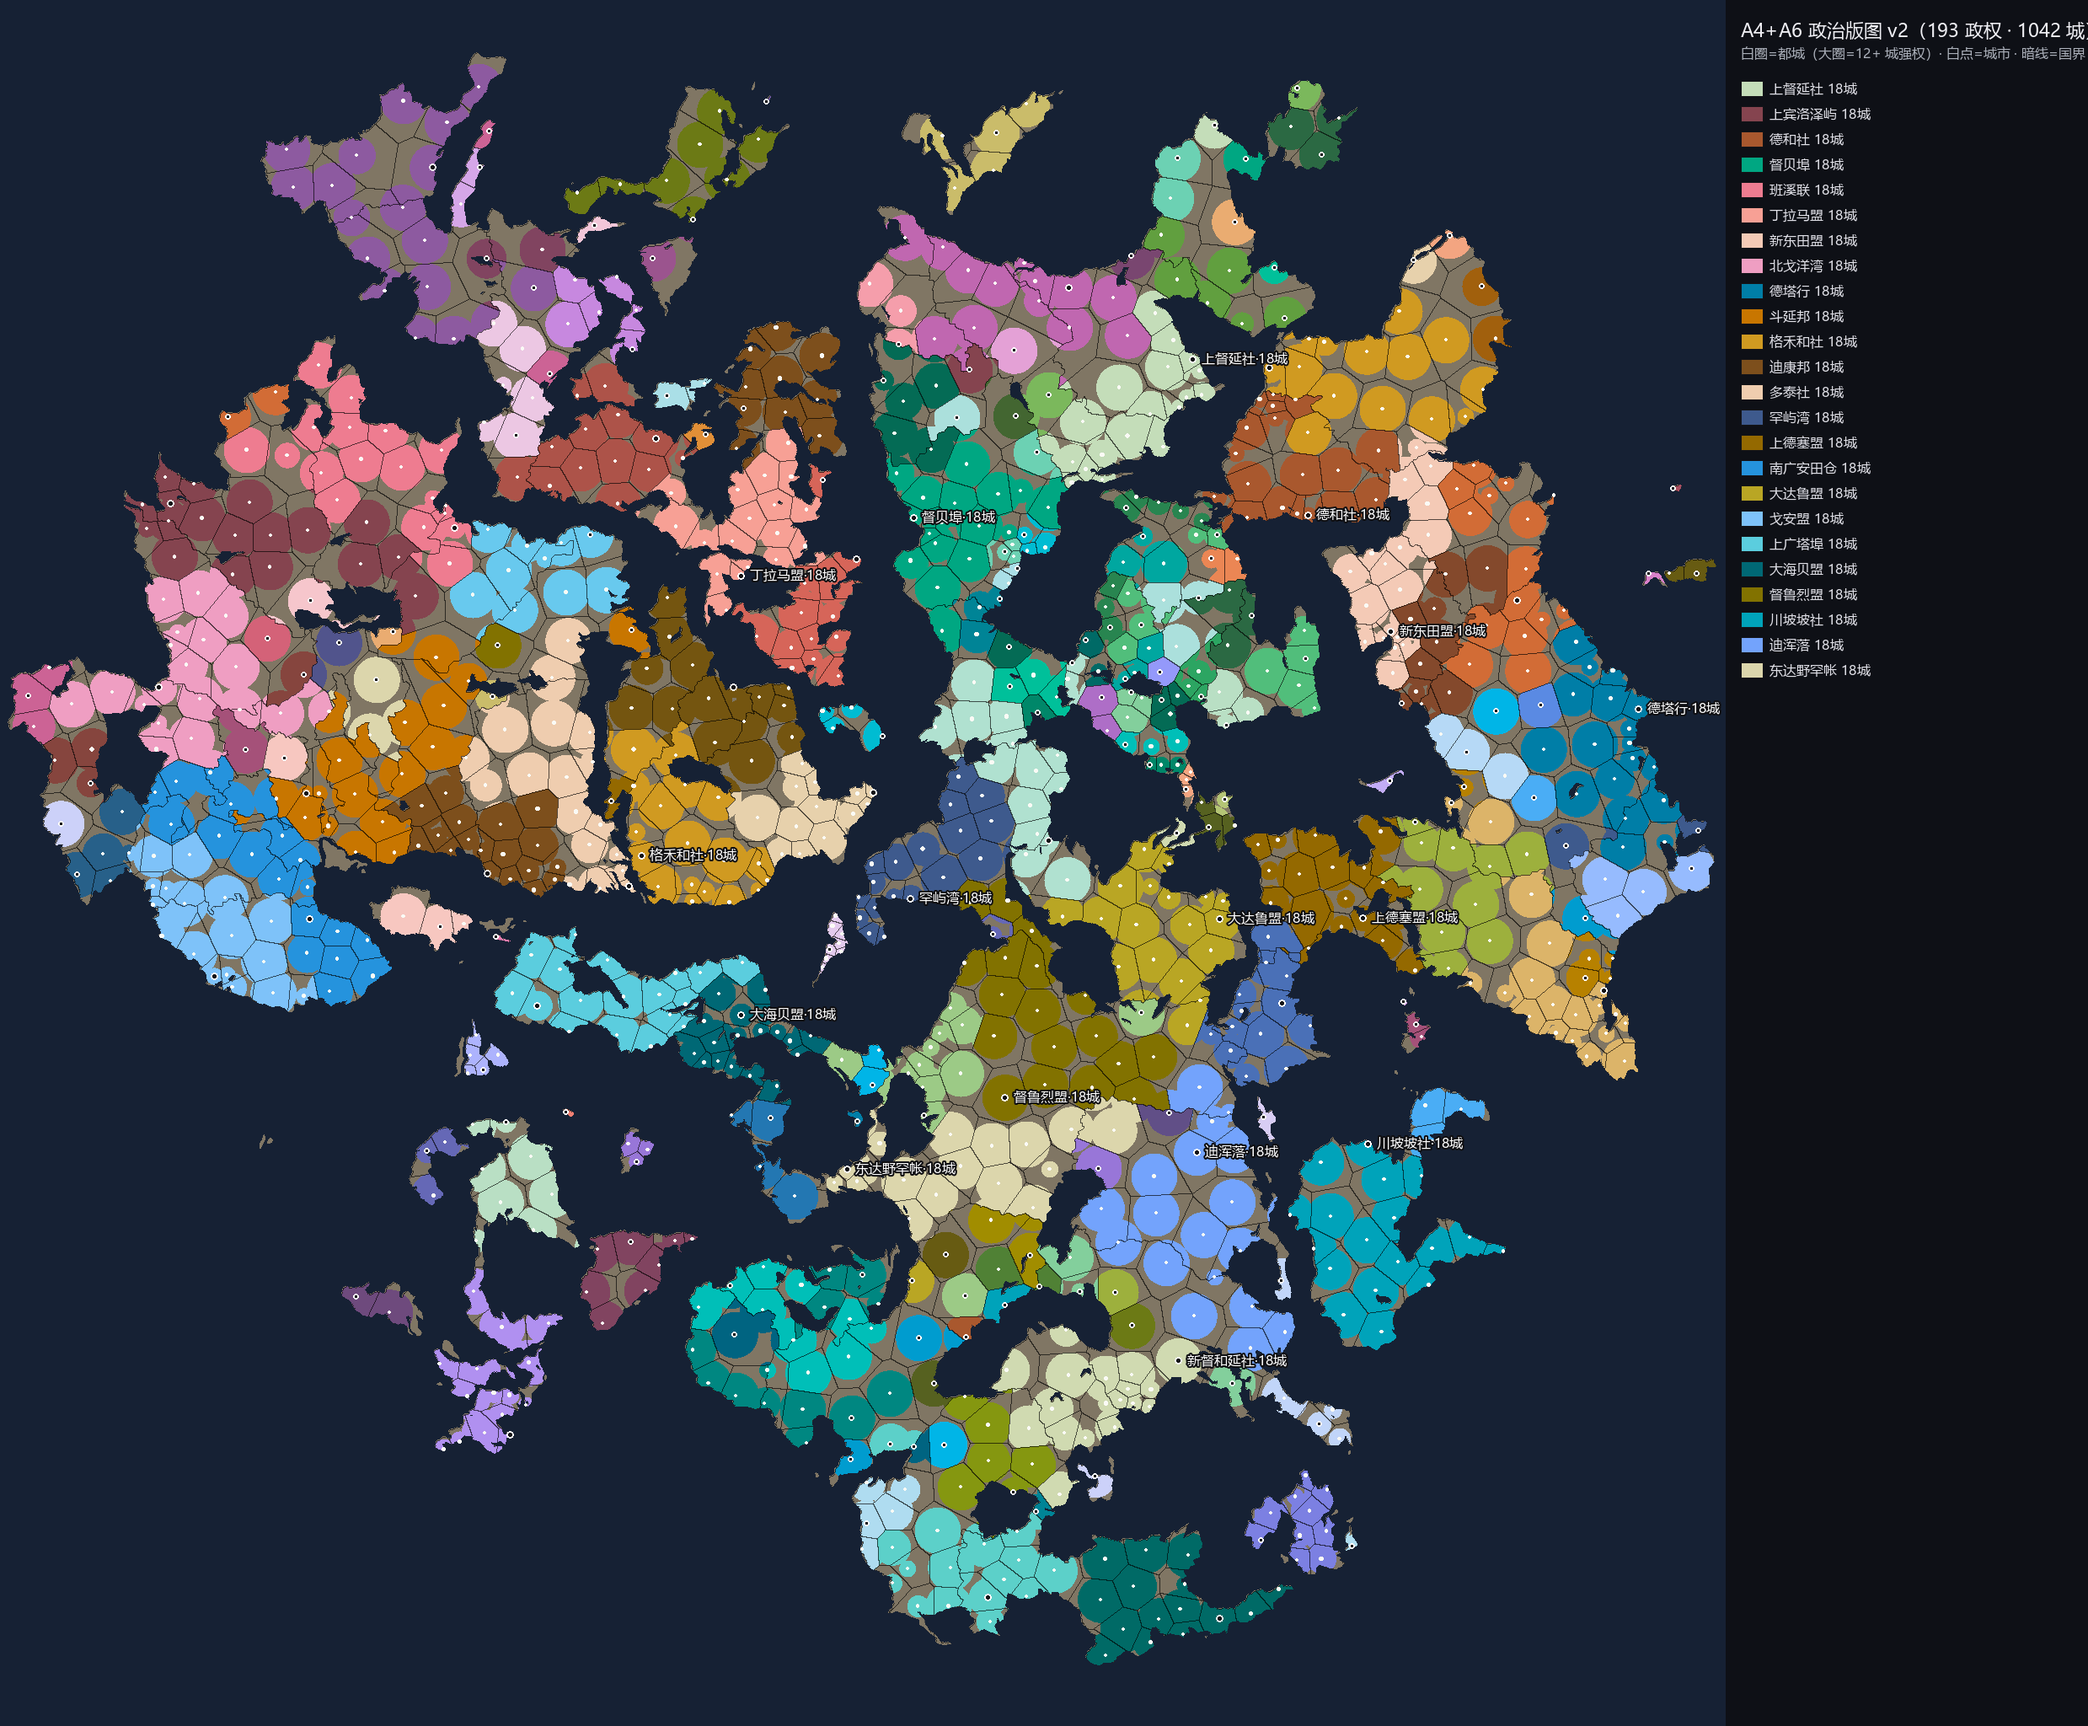
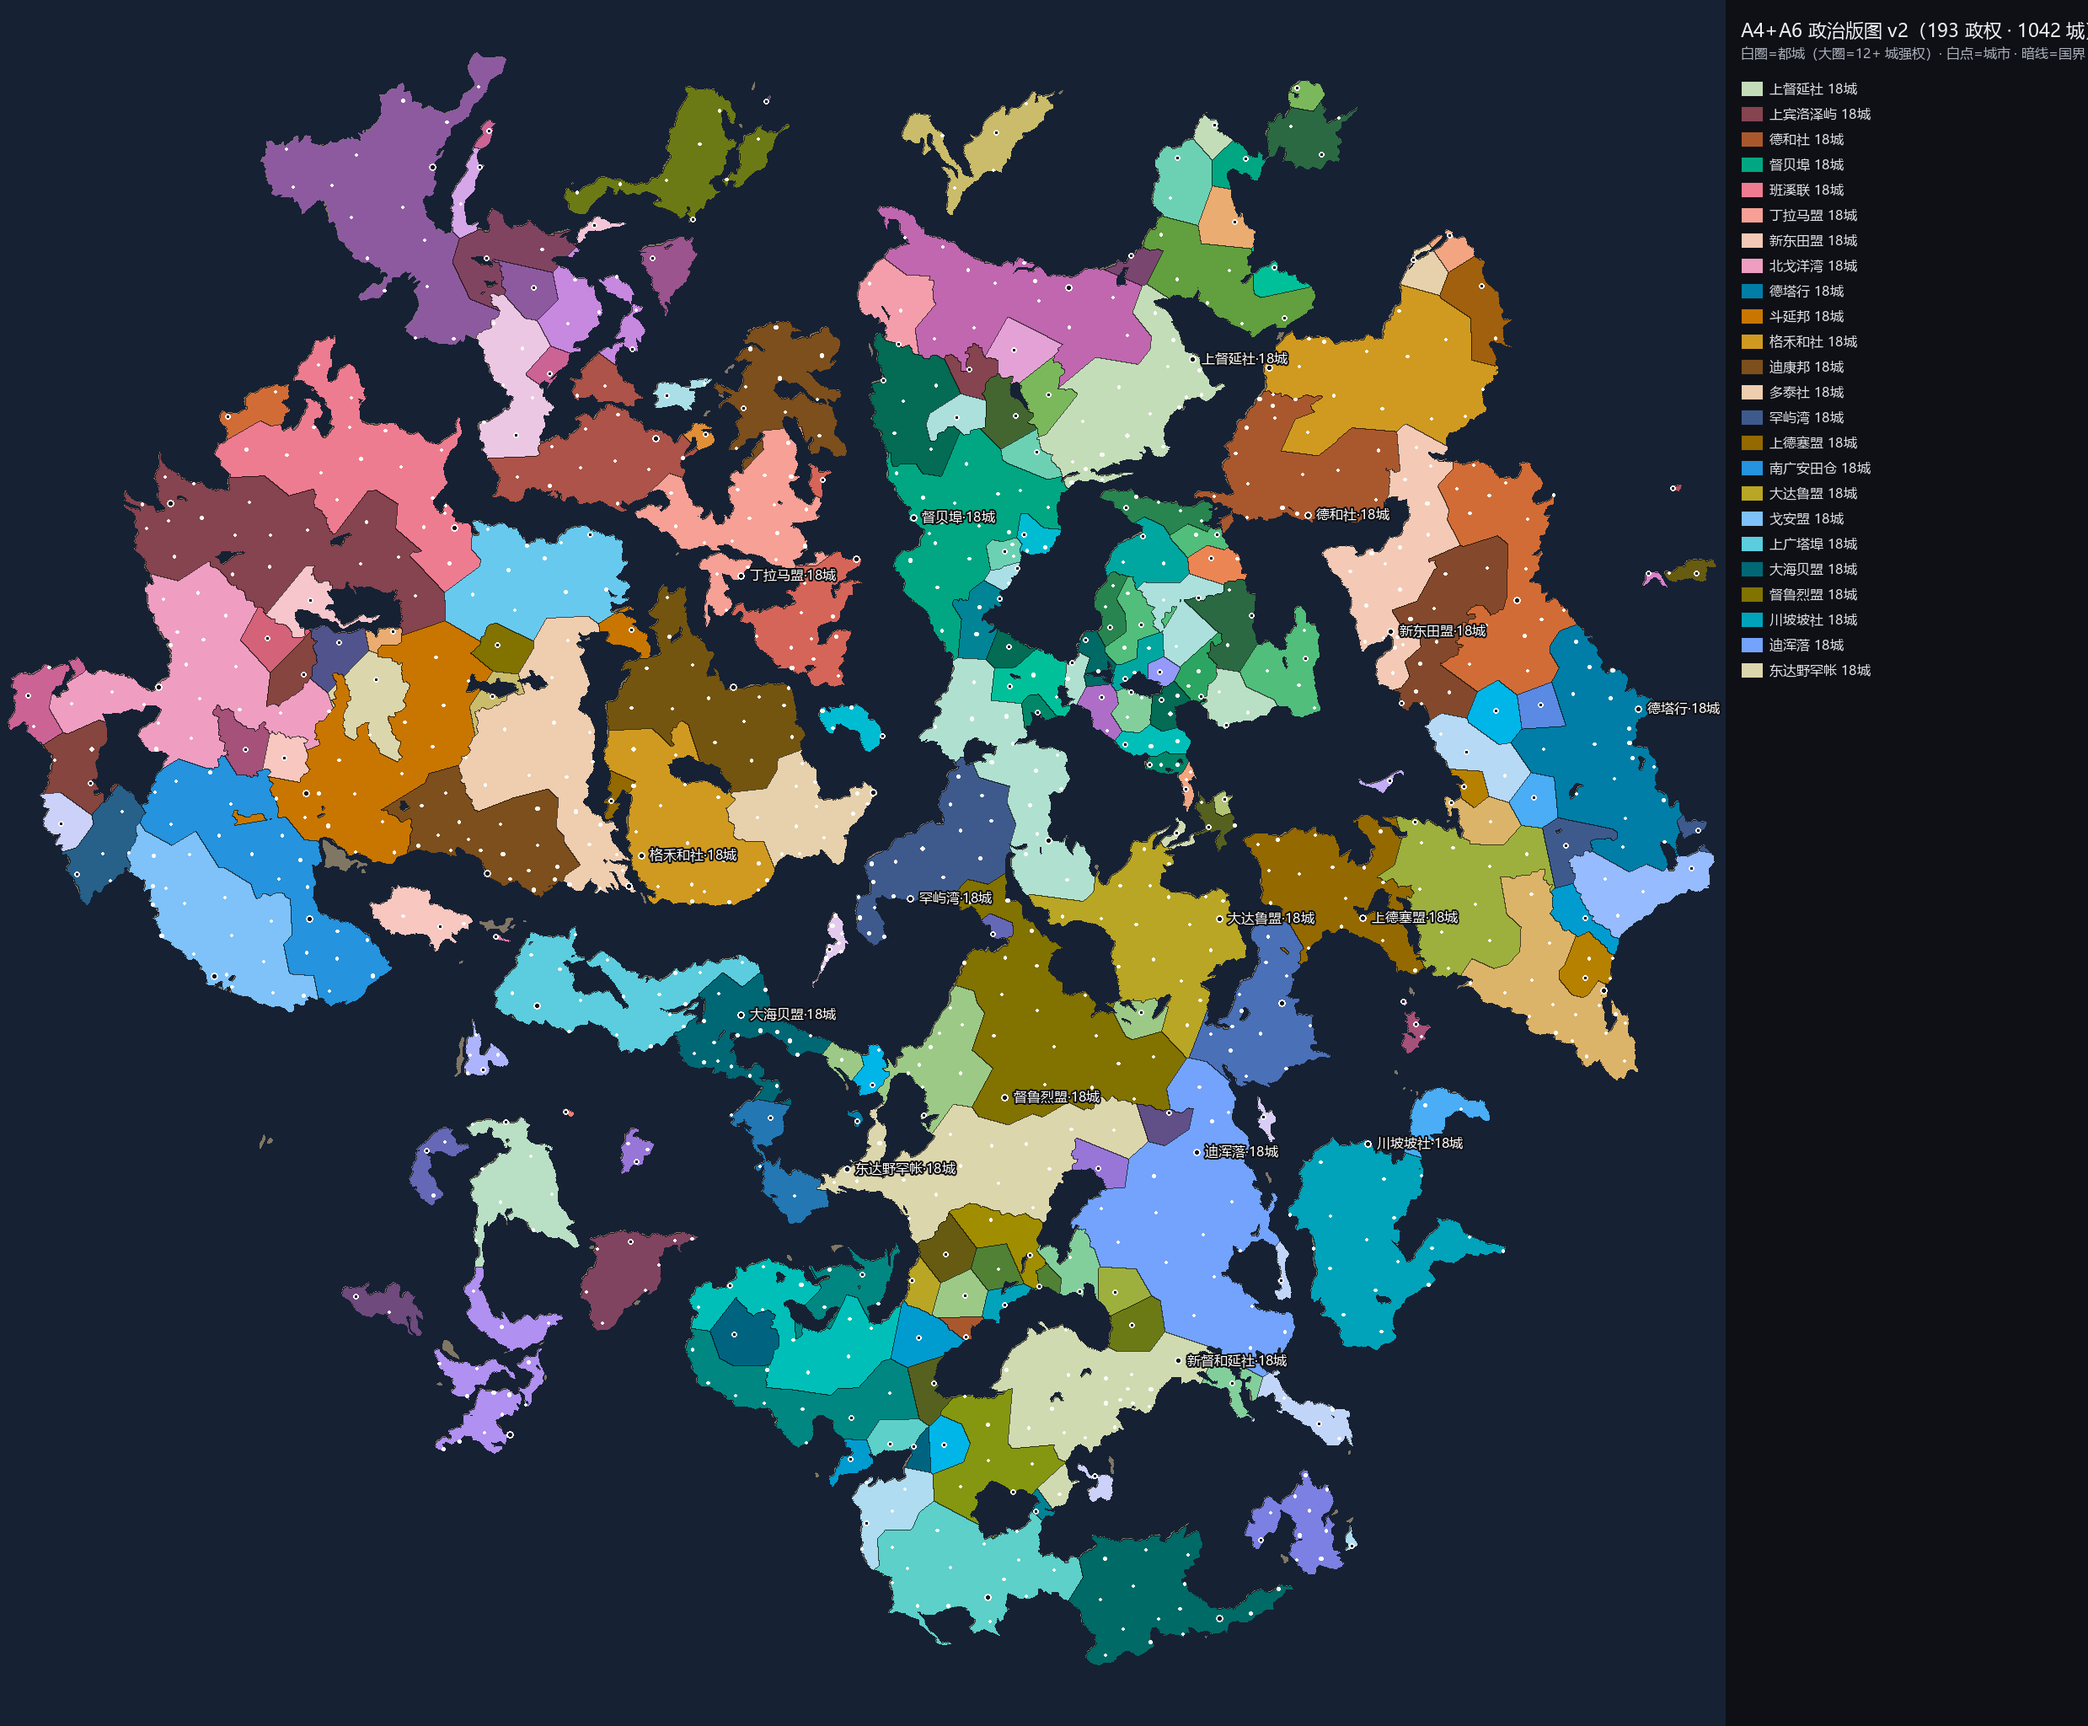
fix(worldgen): 政治图城块场直出——删残留圆盘裁剪（lab 含 -1 即触发、把圆外色全擦的旧 bug），块色=归属国色、国界按归属国描线；视觉复核严丝合缝零圆零缝

diff --git a/tools/worldgen/l3/state_build_v2.py b/tools/worldgen/l3/state_build_v2.py
@@ -1120,34 +1120,19 @@ def make_previews(P, suit, eff_land, cities, owner, states_out, meta):
     if (lab < 0).any():
         rgb[lab < 0] = np.array(WASTELAND_RGB, dtype=np.uint8)  # 城块场 0=无主荒地
     landm = eff_land
-    # 荒地掩膜（仅 Voronoi 回退路线）：城的「主张盘」之外的无城陆地
-    claim = np.zeros((S, S), dtype=bool)
-    if lab.min() >= 0:
-        claim[:] = True  # 真实场路线：荒地已由 lab<0 表达，跳过圆盘裁剪
-    ssp = P["fields_v2"]["settlements"]
-    su = np.asarray(suit, dtype=np.float32)
-    cap_px = float(ssp.get("claim_cap_px", 110.0))
-    r_min = float(ssp.get("r_min_px", 60.0))
-    r_max = float(ssp.get("r_max_px", 260.0))
-    rc = float(ssp.get("radius_curve", 2.0))
-    s_min = float(ssp.get("suit_min", 0.05))
-    for c in cities:
-        sv = float(su[min(int(c["y"] / K), S - 1), min(int(c["x"] / K), S - 1)])
-        t = max(0.0, min(1.0, (sv - s_min) / max(1.0 - s_min, 1e-6)))
-        r_px = (r_max - (r_max - r_min) * (t ** rc)) / K
-        r_use = min(r_px, cap_px / K)
-        cx, cy = c["x"] / K, c["y"] / K
-        x0, x1 = max(0, int(cx - r_use)), min(S, int(cx + r_use) + 1)
-        y0, y1 = max(0, int(cy - r_use)), min(S, int(cy + r_use) + 1)
-        if x1 <= x0 or y1 <= y0:
-            continue
-        yy, xx = np.mgrid[y0:y1, x0:x1]
-        claim[y0:y1, x0:x1] |= ((yy - cy) ** 2 + (xx - cx) ** 2) <= r_use * r_use
-    wasteland = landm & (~claim)
-    rgb[wasteland] = WASTELAND_RGB
+    # 城块场直出（创始人 2026-09-28：政治图=地块图换上色，无圆盘无 Voronoi 裁剪）：
+    # 块色=归属国色；lab<0 由 landm 分流——海=洋色、陆上无主=荒地灰
+    rgb = lut[lab_clip + 1]
+    rgb[lab < 0] = WASTELAND_RGB
     rgb[~landm] = OCEAN_RGB
-    b_h = (lab[1:, :] != lab[:-1, :]) & landm[1:, :] & landm[:-1, :]
-    b_w = (lab[:, 1:] != lab[:, :-1]) & landm[:, 1:] & landm[:, :-1]
+    # 国界按归属国（不按块）：相邻像素归属国不同即描暗线
+    sid_idx = {sid: i + 1 for i, sid in enumerate(live)}
+    own_int = np.zeros(len(cities) + 1, dtype=np.int32)
+    for i, c in enumerate(cities):
+        own_int[i + 1] = sid_idx.get(owner[c["label"] - 1], 0)
+    own_lab = own_int[lab_clip + 1]
+    b_h = (own_lab[1:, :] != own_lab[:-1, :]) & landm[1:, :] & landm[:-1, :]
+    b_w = (own_lab[:, 1:] != own_lab[:, :-1]) & landm[:, 1:] & landm[:, :-1]
     dark = (rgb * 0.35).astype(np.uint8)
     rgb[1:, :][b_h] = dark[1:, :][b_h]
     rgb[:, 1:][b_w] = dark[:, 1:][b_w]
@@ -1179,7 +1164,7 @@ def make_previews(P, suit, eff_land, cities, owner, states_out, meta):
             % (len(states_out), meta["n_cities"]), font=font,
             fill=(240, 240, 245))
     d2.text((S + 18, 52), "白圈=都城（大圈=12+ 城强权）· 白点=城市 · 暗线=国界"
-            "（最近城 Voronoi 视觉聚合，正式 ID mask 由棒 4 重烤）",
+            "（城块场直出：地块换国色，国界按归属描线）",
             font=font_s, fill=(170, 175, 185))
     top = sorted(live, key=lambda s: (-states_out[s]["n_cities"], s))[:24]
     for i, sid in enumerate(top):
